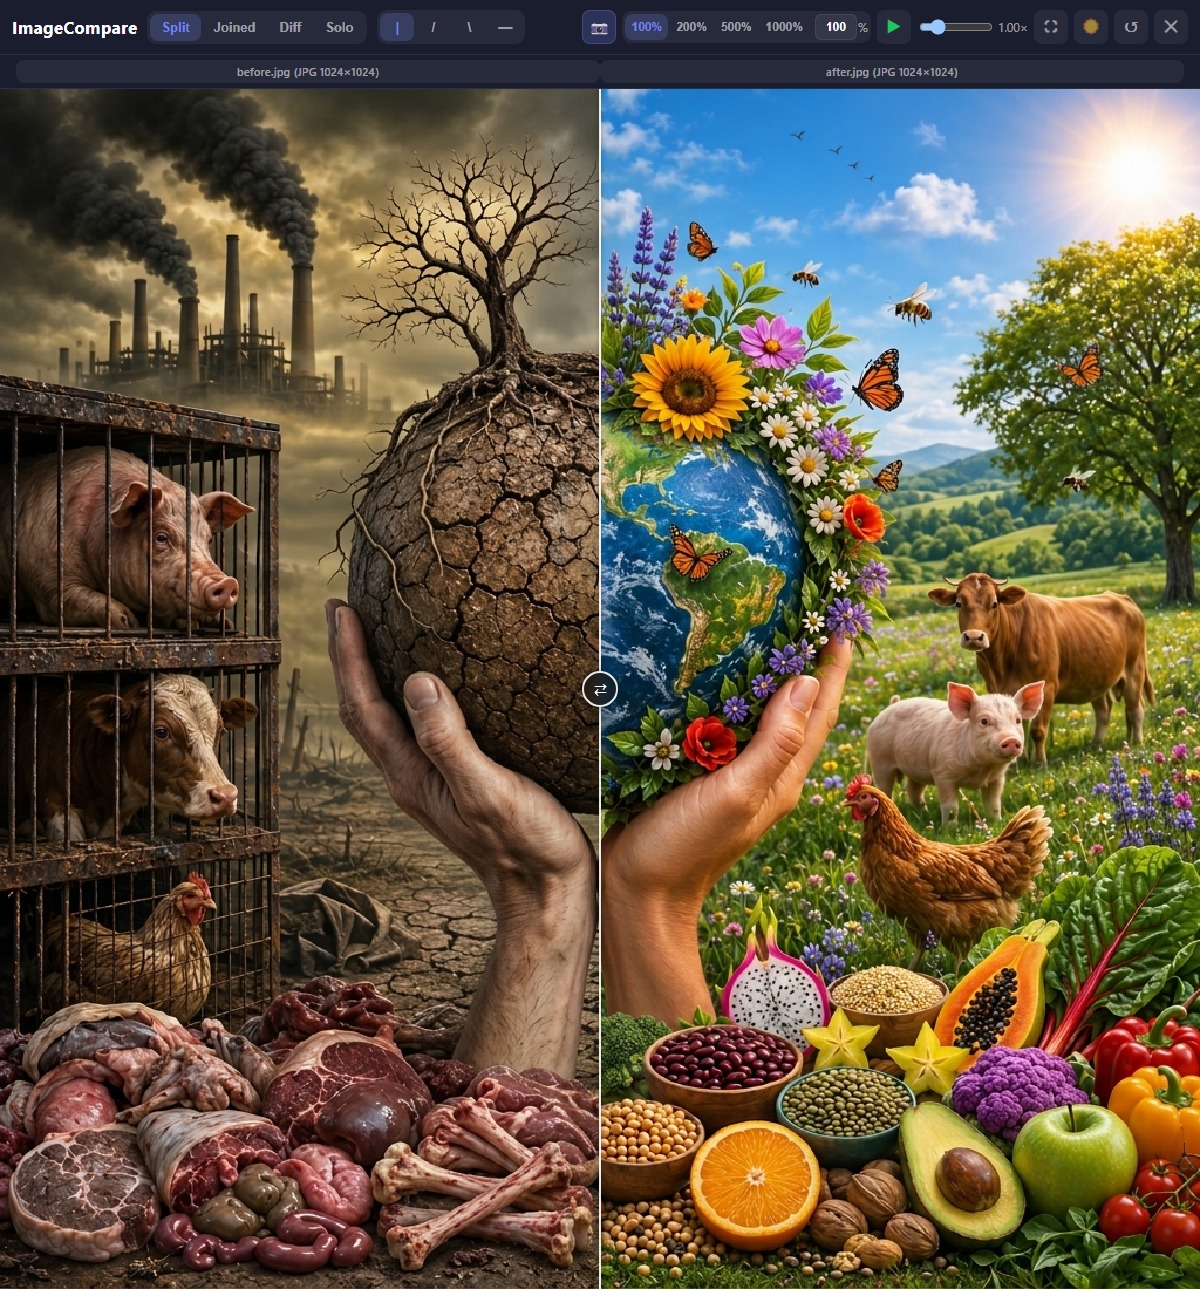
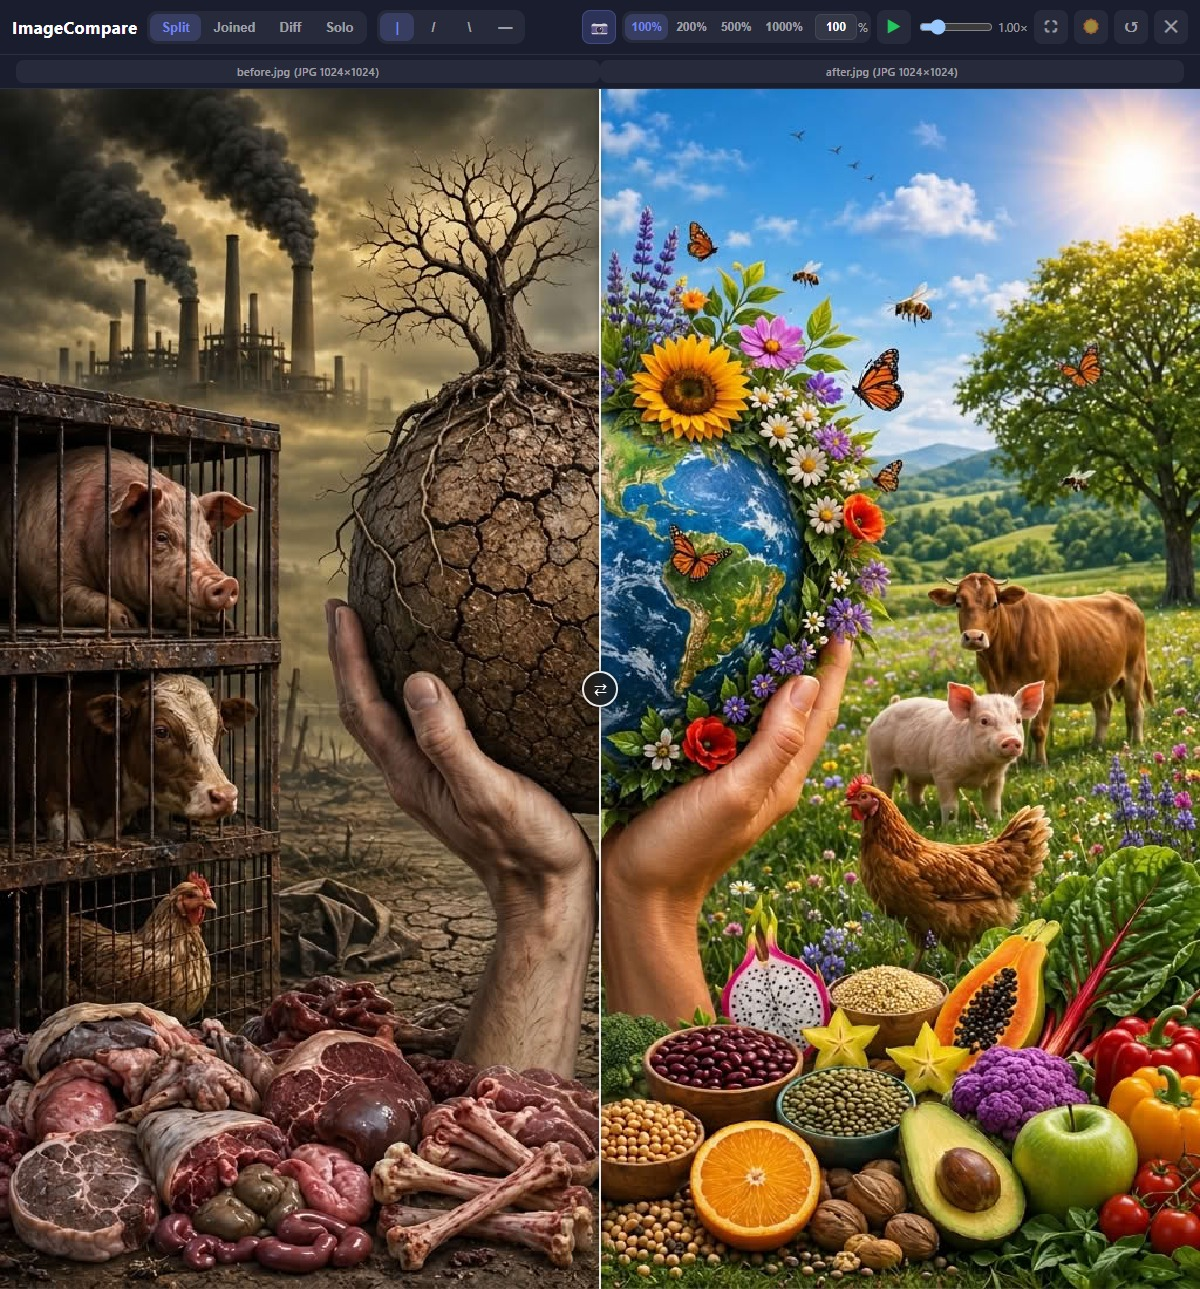
Docs hygiene rule plus sweep: stale lib path, history-echo sub-bullet, present-tense divider; fresh teaser

diff --git a/index.html b/index.html
@@ -29,7 +29,7 @@
   FEATURE MAP
   --------------------------------------------------------------------------
     4 view modes:  Split, Joined, Pixel Diff, Solo (details below).
-                   (Joined replaces Side-by-Side + Combine: locked strip, H/V, gap, labels.)
+                   Joined pairs A and B as one locked strip (shared pan/zoom; H/V, gap, labels).
     Theme:         dark (default) + light moon/sun toggle, persisted in localStorage
                    under the key "ictheme".
     Interactions:  wheel-zoom anchored to cursor, drag-to-pan in every mode,

diff --git a/README.md b/README.md
@@ -23,8 +23,8 @@ four view modes with cursor-anchored zoom, drag-to-pan, and a PNG capture export
   - **Solo** — shows one image at rest; press-and-hold to reveal the other.
 - **Cursor-anchored zoom** — scroll wheel zooms toward the pointer; works in
   every mode at any zoom level.
-- **Drag-to-pan (never hijacked)** — anywhere on the image pans it in every mode (the slider
-  handle is the only direct slider control).
+- **Drag-to-pan** — anywhere on the image pans it in every mode (the slider
+  handle is the only direct slider control); panning is never interrupted, including mid-sweep and over letterbox zones.
 - **Diagonal divider** — the divider line is computed to be exactly collinear
   with the clip edge at any aspect ratio (`atan2` based, not a fixed 45°).
 - **Autoplay sweep** — animates the slider back and forth at an adjustable speed factor (keeps running while you pan).
@@ -45,7 +45,6 @@ four view modes with cursor-anchored zoom, drag-to-pan, and a PNG capture export
   layout, split line and division exactly as shown, including diagonals;
   cropped to the visible union; letterbox filled with viewport bg.
   - **Divider burn-in (always on)** — split captures always burn a 2px divider in the complementary color of the touching pixels (per side), so the seam stays visible on any image.
-  - **Theme icon** — moon/sun toggle button instead of a text label.
 - **TIFF + broad formats** — `.tif/.tiff` decode in-page via vendored UTIF.js
   (MIT, Photopea, offline single-file); other extensions (HEIC/HEIF, AVIF, BMP,
   ICO, SVG, WebP, RAW) accepted when the browser can render them, with a clear
@@ -140,7 +139,7 @@ Why the tool behaves the way it does, where the reason is not obvious from the c
 ## Notes
 
 - No build step, no runtime dependencies, no internet required. The tool is `index.html` alone; everything else is development support.
-- The repository keeps no `node_modules`. Development borrows a globally installed Playwright (`bun add -g playwright`), located by `scripts/lib/playwright.cjs`; Chrome and `ffmpeg` are the other prerequisites.
+- The repository keeps no `node_modules`. Development borrows a globally installed Playwright (`bun add -g playwright`), located by `scripts/playwright.cjs`; Chrome and `ffmpeg` are the other prerequisites.
 - The code is heavily commented with per-function docstrings and `@credit` tags
   mapping each piece back to its source project.
 - Verified by `tests/e2e.cjs`: 38 assertions covering drop routing, auto-start, slot swaps, capture-vs-viewport in every slider mode, joined export, and the gesture regressions.

diff --git a/AGENTS.md b/AGENTS.md
@@ -24,6 +24,12 @@ Working rules for this repository. It describes the constraints that are easy to
 | `assets/` | images referenced by the README |
 | `samples/` | local-only teaser pair for the screenshot script |
 
+## Docs
+
+- One home per fact: the README tells the user what the tool does, this file tells agents the rules, `docs/` holds write-ups. Never restate a fact in two files — point at it instead. Short echoes are allowed only where the readers differ (README vs this file).
+- Cold-reader clean: every sentence must make sense to someone who never saw the work happen — no session memory, no change narration ("was moved", "used to be"), no announced omissions.
+- Counts, file trees, command lines and preset lists get re-verified against the implementation in the same change. Check doc changes against `@consolidate-patchwork` (one home, no duplication, frames match reality) and `@audit-cold-reader` (no echo of the making) before committing.
+
 ## Gates
 
 Run before every commit:
